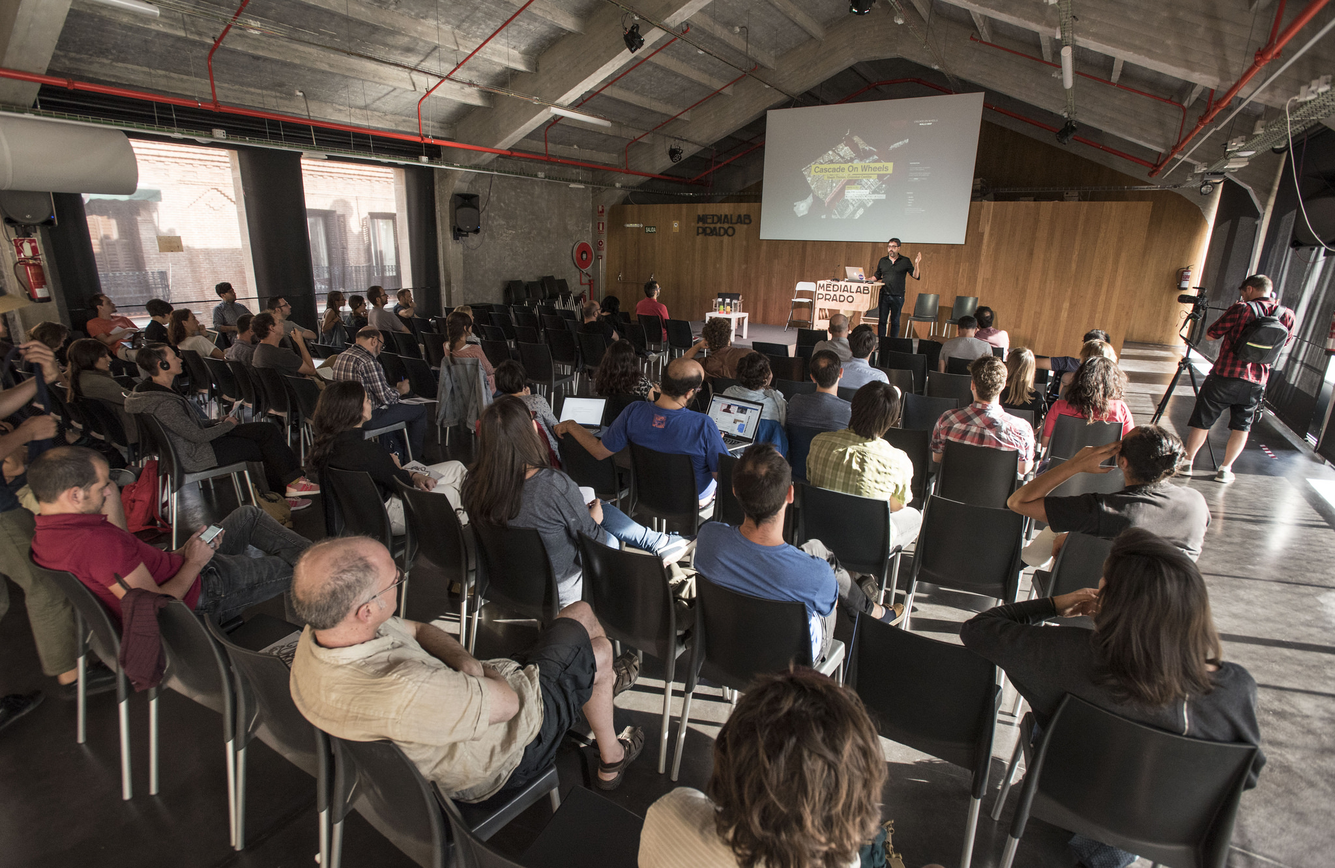
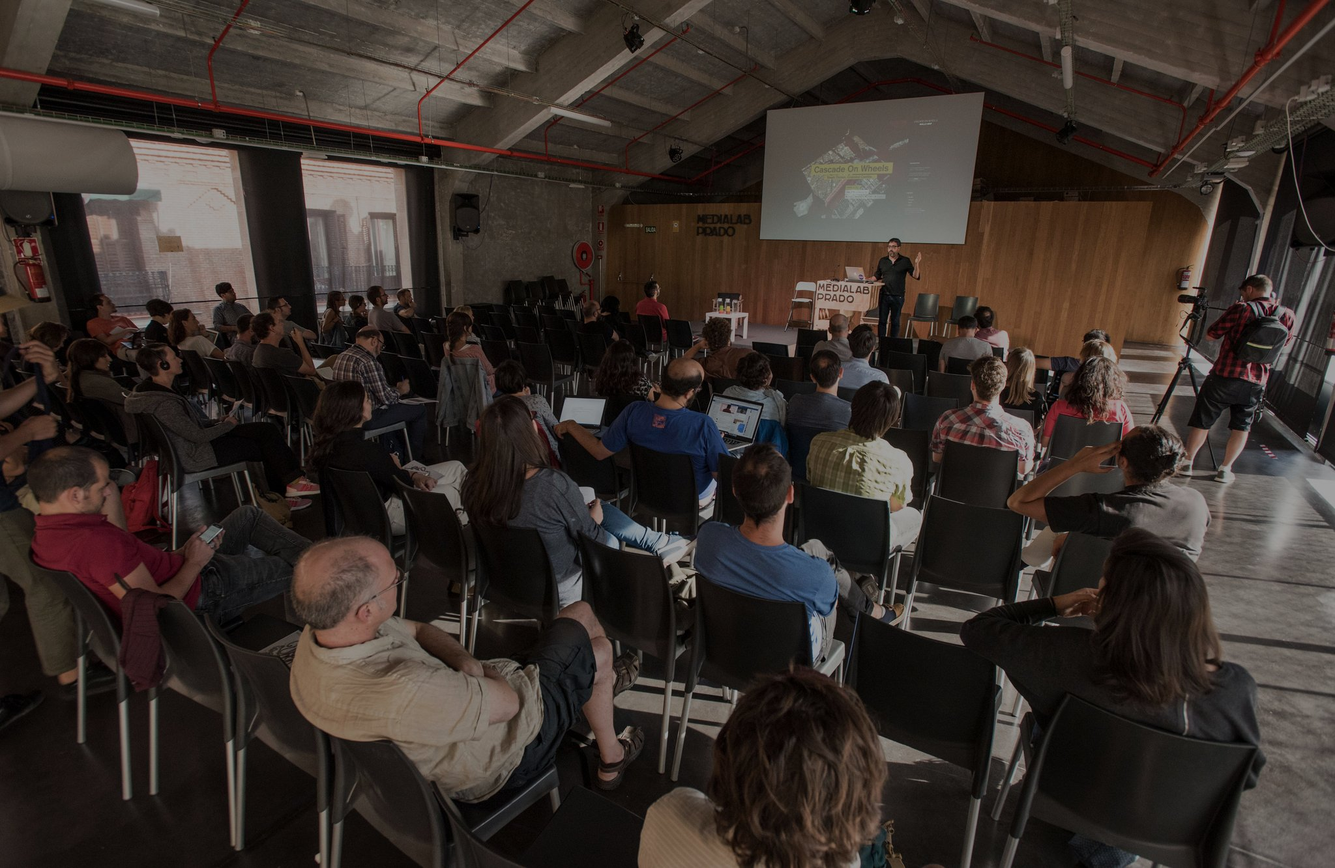
Foto de portada retocada a más oscura + pequeños ajustes

diff --git a/_includes/footer.html b/_includes/footer.html
@@ -1,9 +1,6 @@
 <!-- Begin Footer -->
 <footer id="footer" class="footer">
 	<div class="row">
-		<div class="pull-left col-md-6 col-xs-6">
-			<div class="g-plusone" data-size="medium" data-annotation="inline" data-width="300" data-href="{{ site.url }}"></div>
-		</div>
 		<div class="logo logo-footer logo-gray pull-right"></div>
 	</div>
 	<div class="row">
@@ -38,7 +35,7 @@
 		<!-- Please don't delete this line-->
 		<div class="col-md-6">
 			<p class="copyright">
-				&copy; 2014 Based on <a href="https://github.com/gdg-x/zeppelin" target="_blank">Project Zeppelin</a>. Designed and created by <a href="https://plus.google.com/+OlehZasadnyy/about" target="_blank">Oleh Zasadnyy</a> &middot; <a href="http://lviv.gdg.org.ua" target="_blank">GDG Lviv</a>
+				&copy; 2014 Based on <a href="https://github.com/gdg-x/zeppelin" target="_blank">Project Zeppelin</a>
 			</p>
 		</div>
 	</div>

diff --git a/_includes/tickets.html b/_includes/tickets.html
@@ -24,7 +24,7 @@
 						<a class="button" href="{{ ticketsOffer.buyButtonLink }}" target="_blank">{{ ticketsOffer.buyButtonText }}</a>
 						{% else %}
 		           		{% assign ticketValidFrom = ticketsOffer.validFrom | split: "T" %}
-						<span class="button disabled fallback">Ticket sales will begin on {{ ticketValidFrom[0] | date: "%-d %B %Y"}} {{ ticketValidFrom[1] }}</span>
+						<span class="button disabled fallback">El plazo de inscripción comienza el {{ ticketValidFrom[0] | date: "%-d %B %Y"}} {{ ticketValidFrom[1] }}</span>
 						{% endif %}
 					</div>
 				</div>
